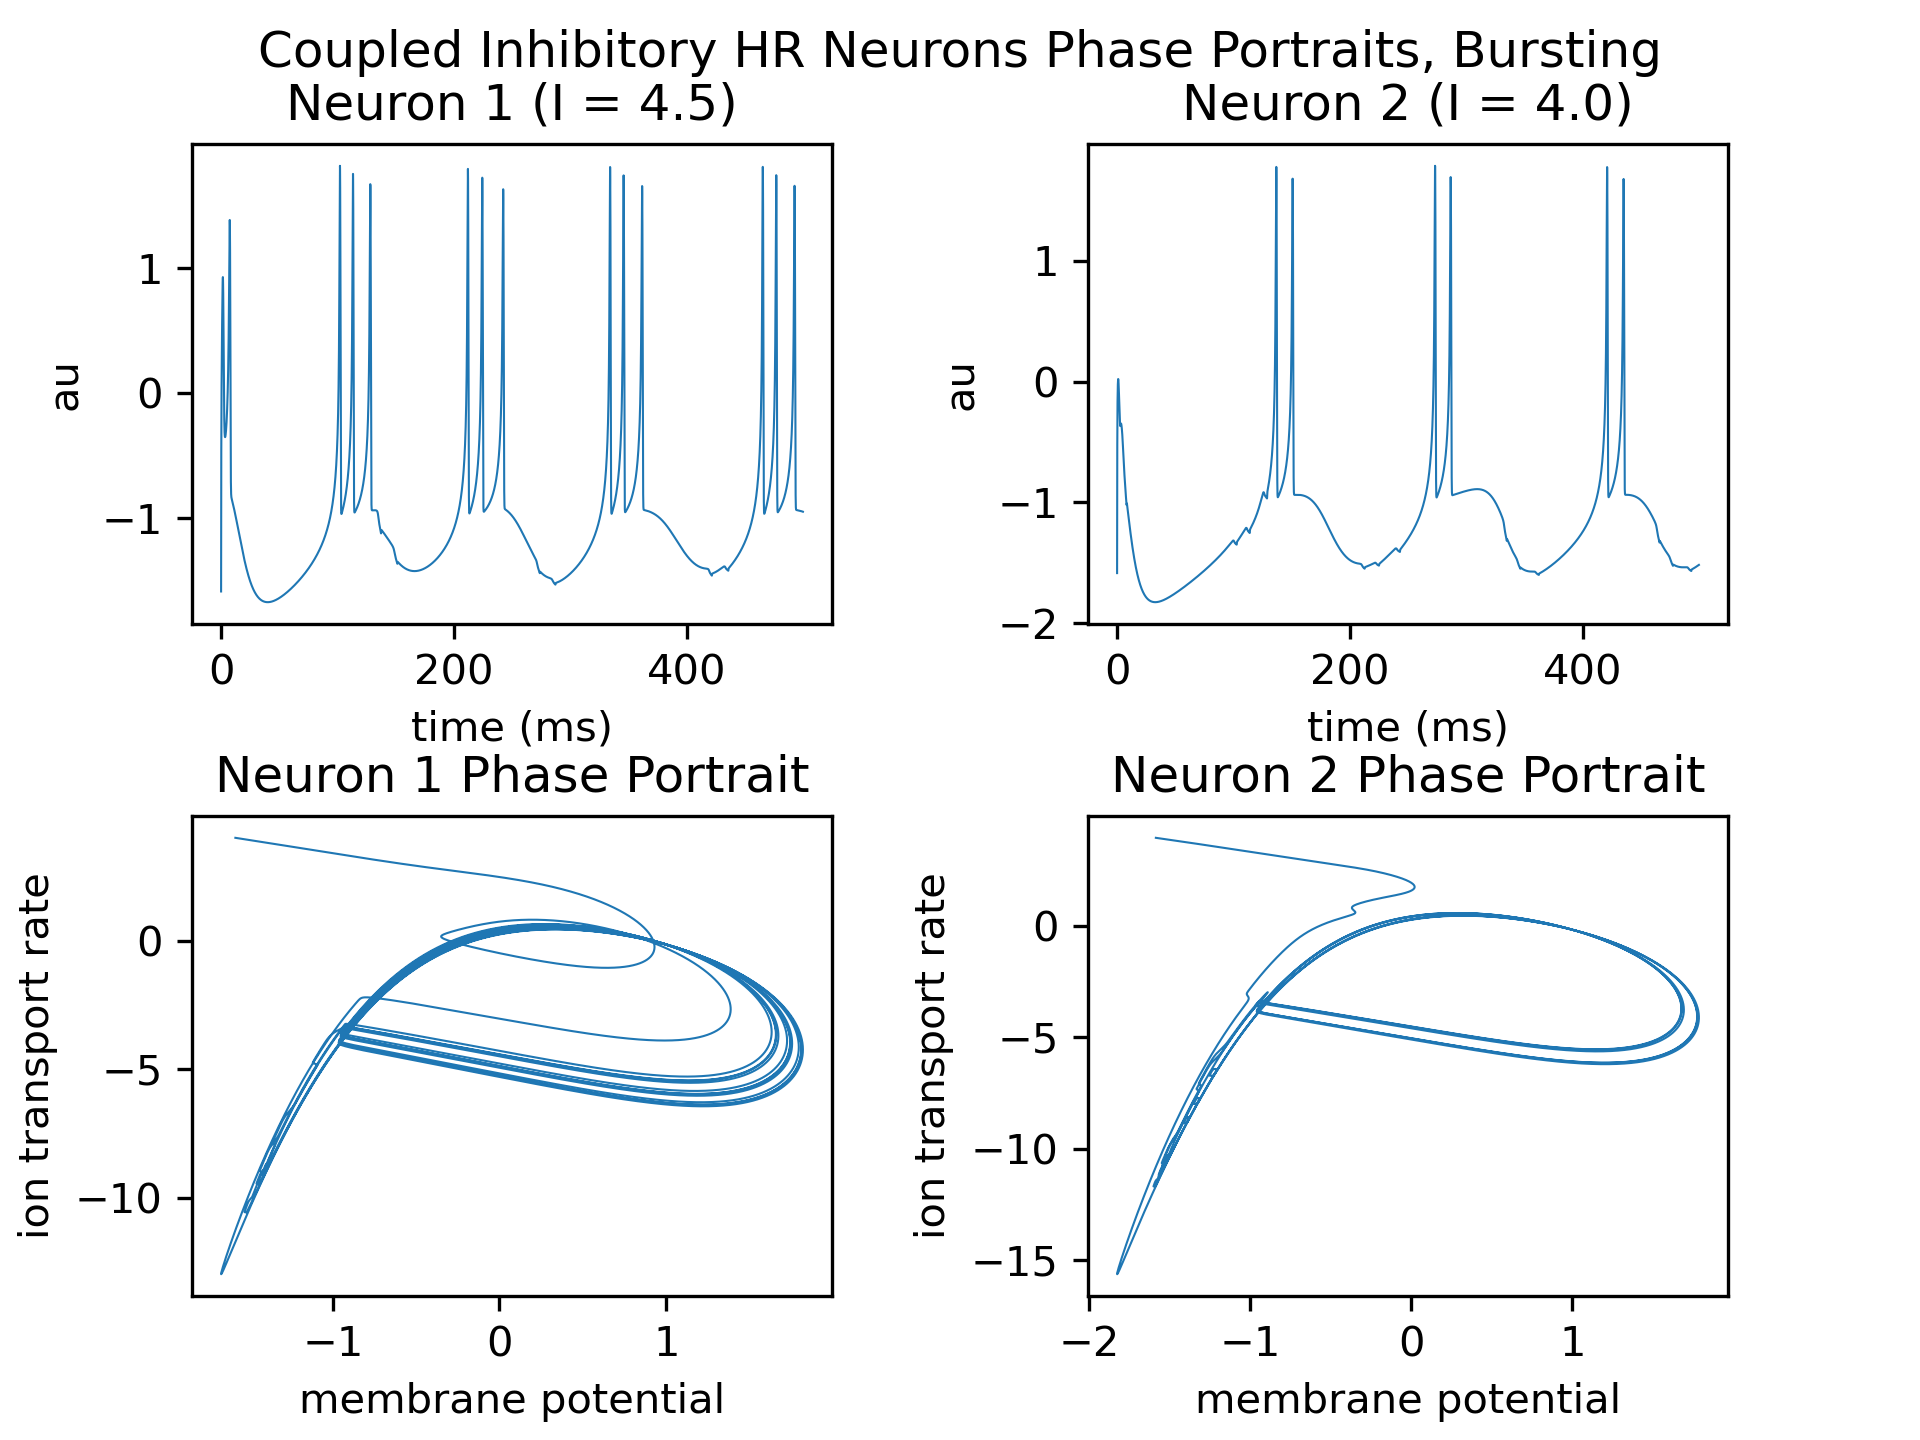
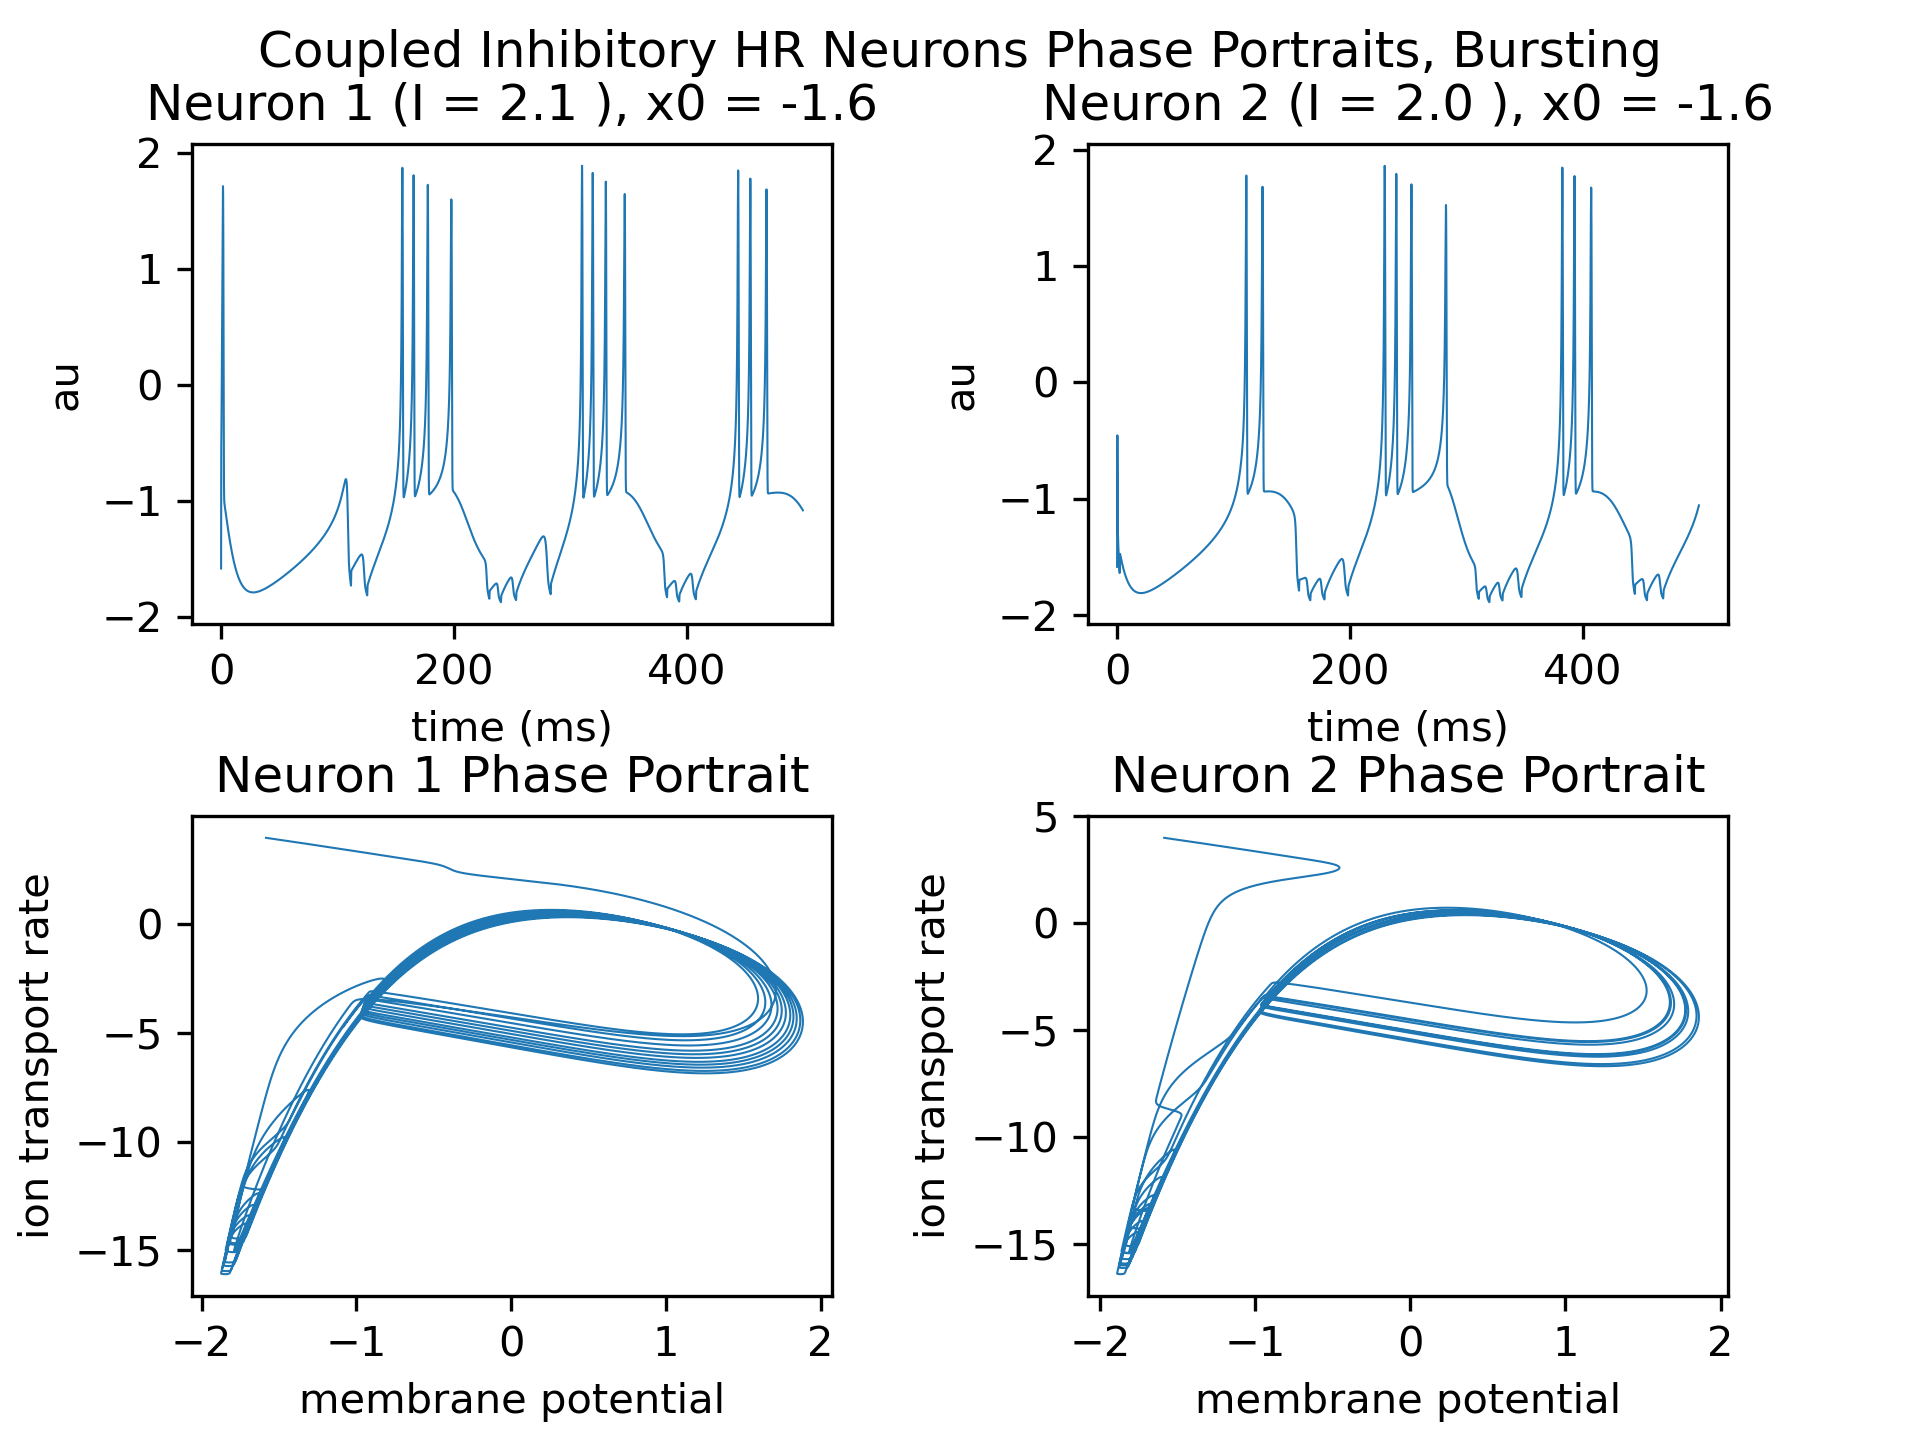
coupled neuron variable fix, new graphs & phase portraits

diff --git a/HRcoupled_sim.py b/HRcoupled_sim.py
@@ -16,44 +16,44 @@ synapse1 = synapse([neuron1, neuron2])
 synapse1.calculate_all()
 
 # print(synapse1.sigmoid1)
-# synapse1.graph_all()
+synapse1.graph_all()
 
-x1 = synapse1.get_neuron1x()
-x2 = synapse1.get_neuron2x()
-y1 = synapse1.get_neuron1y()
-y2 = synapse1.get_neuron2y()
+# x1 = synapse1.get_neuron1x()
+# x2 = synapse1.get_neuron2x()
+# y1 = synapse1.get_neuron1y()
+# y2 = synapse1.get_neuron2y()
 
-fig = plt.figure()
-ax1 = fig.add_subplot(221)
-ax2 = fig.add_subplot(222)
-ax3 = fig.add_subplot(223)
-ax4 = fig.add_subplot(224)
+# fig = plt.figure()
+# ax1 = fig.add_subplot(221)
+# ax2 = fig.add_subplot(222)
+# ax3 = fig.add_subplot(223)
+# ax4 = fig.add_subplot(224)
 
-fig.suptitle("Coupled Inhibitory HR Neurons Phase Portraits, Bursting")
-ax1.plot(neuron1.time_vec, x1, linewidth=0.5)
-ax2.plot(neuron1.time_vec, x2, linewidth=0.5)
+# fig.suptitle("Coupled Inhibitory HR Neurons Phase Portraits, Fast Spiking")
+# ax1.plot(neuron1.time_vec, x1, linewidth=0.5)
+# ax2.plot(neuron1.time_vec, x2, linewidth=0.5)
 
-ax3.plot(x1, y1, linewidth=0.5)
-ax4.plot(x2, y2, linewidth=0.5)
+# ax3.plot(x1, y1, linewidth=0.5)
+# ax4.plot(x2, y2, linewidth=0.5)
 
-ax1.title.set_text("Neuron 1 (I = 4.5)")
-ax1.set_xlabel("time (ms)")
-ax1.set_ylabel("au")
-ax2.title.set_text("Neuron 2 (I = 4.0)")
-ax2.set_xlabel("time (ms)")
-ax2.set_ylabel("au")
-ax3.title.set_text("Neuron 1 Phase Portrait")
-ax3.set_xlabel("membrane potential")
-ax3.set_ylabel("ion transport rate")
-ax4.title.set_text("Neuron 2 Phase Portrait")
-ax4.set_xlabel("membrane potential")
-ax4.set_ylabel("ion transport rate")
+# ax1.title.set_text("Neuron 1 (I = " + str(neuron1.current) + " ), x0 = " + str(neuron1.xR))
+# ax1.set_xlabel("time (ms)")
+# ax1.set_ylabel("au")
+# ax2.title.set_text("Neuron 2 (I = " + str(neuron2.current) + " ), x0 = " + str(neuron2.xR))
+# ax2.set_xlabel("time (ms)")
+# ax2.set_ylabel("au")
+# ax3.title.set_text("Neuron 1 Phase Portrait")
+# ax3.set_xlabel("membrane potential")
+# ax3.set_ylabel("ion transport rate")
+# ax4.title.set_text("Neuron 2 Phase Portrait")
+# ax4.set_xlabel("membrane potential")
+# ax4.set_ylabel("ion transport rate")
 
-plt.subplots_adjust(left=0.1,
-            bottom=0.1, 
-            right=0.9, 
-            top=0.9, 
-            wspace=0.4, 
-            hspace=0.4)
-plt.savefig("bursting_coupled_phase.png", dpi=300)
-plt.show()
+# plt.subplots_adjust(left=0.1,
+#             bottom=0.1, 
+#             right=0.9, 
+#             top=0.9, 
+#             wspace=0.4, 
+#             hspace=0.4)
+# plt.savefig("coupled_phase_fast_spiking.png", dpi=300)
+# plt.show()

diff --git a/synapse.py b/synapse.py
@@ -9,7 +9,8 @@ class synapse:
         # self.weights = [[0 for i in len(neurons)] for j in len(neurons)]
         self.neuron1 = self.neurons[0]
         self.neuron2 = self.neurons[1]
-        self.neuron1.set_current(2.5)
+        # self.neuron1.set_x(-1)
+        self.neuron1.set_current(2.0)
 
         self.sigmoid1 = 0.0
         self.sigmoid2 = 0.0
@@ -65,9 +66,9 @@ class synapse:
         ax1 = fig.add_subplot(221)
         ax2 = fig.add_subplot(222)
         ax3 = fig.add_subplot(223)
-        # ax4 = fig.add_subplot(224)
+        ax4 = fig.add_subplot(224)
 
-        fig.suptitle("Coupled Inhibitory HR Neurons, Fast Spiking")
+        fig.suptitle("Coupled Inhibitory HR Neurons, Fast Spiking & Bursting")
         
         ax1.plot(self.neuron1.time_vec, self.neuron1.xarr, linewidth=0.5, color="red")
         
@@ -75,20 +76,20 @@ class synapse:
         ax3.plot(self.neuron1.time_vec, self.neuron1.xarr, linewidth=0.5, color="red")
         ax3.plot(self.neuron2.time_vec, self.neuron2.xarr, linewidth=0.5, color="green")
         # ax3.plot(self.neuron1.time_vec, self.neuron1.yarr, linewidth=0.5)
-        # ax4.plot(self.neuron1.time_vec, self.neuron1.zarr, linewidth=0.5)
+        ax4.plot(self.neuron1.time_vec, self.neuron1.parr, linewidth=0.5)
 
-        ax1.title.set_text("Neuron 1 (I = 4.5)")
+        ax1.title.set_text("Neuron 1 (I = " + str(self.neuron1.current) + " ), x0 = " + str(self.neuron1.xR))
         ax1.set_xlabel("time (ms)")
         ax1.set_ylabel("au")
-        ax2.title.set_text("Neuron 2 (I = 4.0)")
+        ax2.title.set_text("Neuron 2 (I = " + str(self.neuron2.current) + " ), x0 = " + str(self.neuron2.xR))
         ax2.set_xlabel("time (ms)")
         ax2.set_ylabel("au")
         ax3.title.set_text("Both")
         ax3.set_xlabel("time (ms)")
         ax3.set_ylabel("au")
-        # ax4.title.set_text("p1")
-        # ax4.set_xlabel("time (ms)")
-        # ax4.set_ylabel("au")
+        ax4.title.set_text("phi, difference in current")
+        ax4.set_xlabel("time (ms)")
+        ax4.set_ylabel("au")
 
         plt.subplots_adjust(left=0.1,
                     bottom=0.1, 
@@ -98,6 +99,8 @@ class synapse:
                     hspace=0.4)
 
         # plt.savefig("coupled_neurons_bursting.png", dpi=300)
+        plt.savefig("coupled_fast_spiking.png", dpi=300)
+
         plt.show()
     
     def get_neuron1x(self):

diff --git a/HRcoupled.py b/HRcoupled.py
@@ -31,7 +31,7 @@ class HRcoupled:
         self.z = 2.75
         self.phi = 0.0
         self.v_syn = -2.0
-        self.g = 0.5
+        self.g = 10.0
 
         self.time_vec = np.arange(0, c.ms, c.scale)
 

diff --git a/imports.py b/imports.py
@@ -26,7 +26,7 @@ class constants:
         self.ms = 500
         self.iterations = self.ms * 1000
 
-        self.I = 2.0
+        self.I = 4.0
 
         self.rr = 3
         self.v = 0.0009
